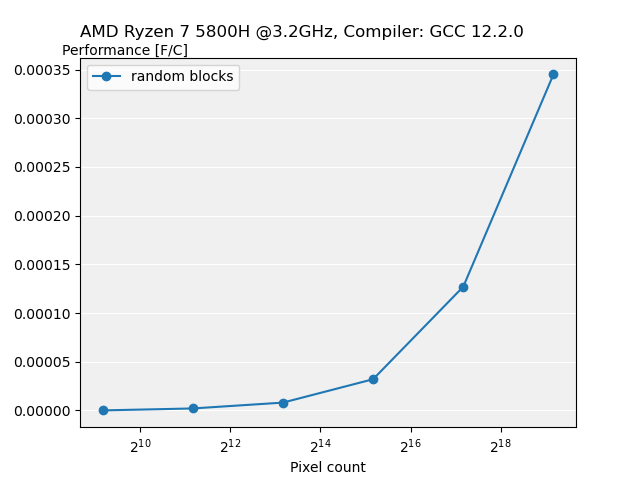
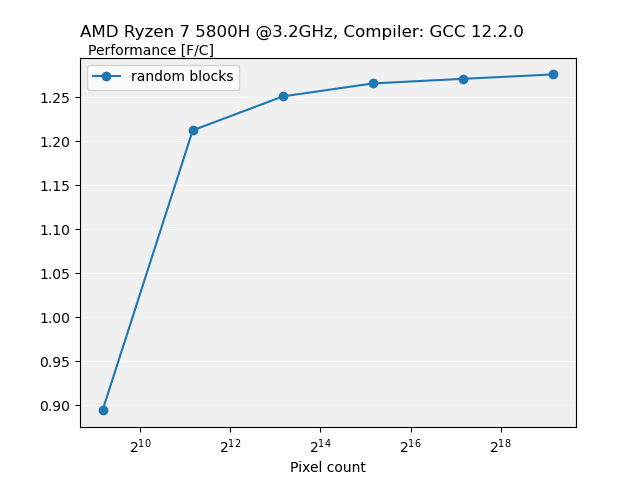
add flop counter

diff --git a/src/ImageQuilting.cpp b/src/ImageQuilting.cpp
@@ -7,6 +7,7 @@
 
 // Synthesize a new texture
 void ImageQuilting::Synthesis(){
+    flopCount = 0;
     OverlapConstraintsWithMinCut();
 }
 
@@ -117,9 +118,13 @@ void ImageQuilting::WriteBlockOverlapWithMinCut(
                 // Get the value directly above
                 double minError = dpTable[(i-1)*overlapWidthLocal+j];
                 // Get the value to the left
-                if (j > 0) minError = std::min(minError, dpTable[(i-1)*overlapWidthLocal+(j-1)]);
+                if (j > 0) {
+                    minError = std::min(minError, dpTable[(i - 1) * overlapWidthLocal + (j - 1)]);
+                }
                 // Get the value to the right
-                if (j < overlapWidthLocal-1) minError = std::min(minError, dpTable[(i-1)*overlapWidthLocal+(j+1)]);
+                if (j < overlapWidthLocal - 1) {
+                    minError = std::min(minError, dpTable[(i - 1) * overlapWidthLocal + (j + 1)]);
+                }
                 dpTable[i*overlapWidthLocal+j] = errorSurface[i*overlapWidthLocal+j] + minError;
             }
         }
@@ -145,6 +150,7 @@ void ImageQuilting::WriteBlockOverlapWithMinCut(
             // Get the value to the left
             if (j > 0){
                 double leftError = dpTable[i*overlapWidthLocal+j-1];
+                flopCount += 1;
                 if (leftError < localError){
                     localError = leftError;
                     verticalPath[i] = j-1;
@@ -153,6 +159,7 @@ void ImageQuilting::WriteBlockOverlapWithMinCut(
             // Get the value to the right
             if (j < overlapWidthLocal-1){
                 double rightError = dpTable[i*overlapWidthLocal+j+1];
+                flopCount += 1;
                 if (rightError < localError){
                     localError = rightError;
                     verticalPath[i] = j+1;
@@ -191,9 +198,13 @@ void ImageQuilting::WriteBlockOverlapWithMinCut(
                 // Get the value directly to the left
                 double minError = dpTable[i*overlapWidthLocal+j-1];
                 // Get the value to the left and up
-                if (i > 0) minError = std::min(minError, dpTable[(i-1)*overlapWidthLocal+(j-1)]);
+                if (i > 0) {
+                    minError = std::min(minError, dpTable[(i - 1) * overlapWidthLocal + (j - 1)]);
+                }
                 // Get the value to the left and below
-                if (i < overlapHeightLocal-1) minError = std::min(minError, dpTable[(i+1)*overlapWidthLocal+(j-1)]);
+                if (i < overlapHeightLocal - 1) {
+                    minError = std::min(minError, dpTable[(i + 1) * overlapWidthLocal + (j - 1)]);
+                }
                 dpTable[i*overlapWidthLocal+j] = errorSurface[i*overlapWidthLocal+j] + minError;
             }
         }
@@ -219,6 +230,7 @@ void ImageQuilting::WriteBlockOverlapWithMinCut(
             // Get the value to the left and above
             if (i > 0){
                 double leftError = dpTable[(i-1)*overlapWidthLocal+j];
+                flopCount++;
                 if (leftError < localError){
                     localError = leftError;
                     horizontalPath[j] = i-1;
@@ -226,6 +238,7 @@ void ImageQuilting::WriteBlockOverlapWithMinCut(
             }
             // Get the value to the left and below
             if (i < overlapHeightLocal-1){
+                flopCount++;
                 double rightError = dpTable[(i+1)*overlapWidthLocal+j];
                 if (rightError < localError){
                     localError = rightError;
@@ -454,6 +467,27 @@ void ImageQuilting::PlaceEdgeOverlapBlockWithMinCut(
     // Clean up
     free(blocks);
     free(suitableBlocks);
+
+    {
+        int overlap = mData->block_h / 6;
+        // flops for ComputeOverlap loop
+        if (overlapType == vertical || overlapType == horizontal) {
+            flopCount += maxBlockY * maxBlockX * (3 * CHANNEL_NUM * overlap * mData->block_h + 1);
+        } else {
+            flopCount += maxBlockY * maxBlockX * 2 * (3 * CHANNEL_NUM * overlap * mData->block_h) +
+                                  (3 * CHANNEL_NUM * overlap * overlap) + 1;
+        }
+        // flops for intermediate flops
+        flopCount += 2 * maxBlockY * maxBlockX + 2;
+
+        // flops for WriteBlockOverlapWithMinCut
+        if (overlapType == vertical || overlapType == horizontal) {
+            flopCount += 3 * CHANNEL_NUM * overlap * overlap +  3 * overlap * (overlap - 1) + (overlap - 1);
+        } else {
+            flopCount += 2 * 3 * CHANNEL_NUM * overlap * overlap +  3 * overlap * (overlap - 1) + (overlap -
+                                                                                                  1);
+        }
+    }
 }
 
 // Synthesize a new texture by randomly choosing blocks satisfying constraints and applying minimum cuts
@@ -594,4 +628,7 @@ void ImageQuilting::RandomBlockPlacement(){
             }
         }
     }
+}
+int64_t ImageQuilting::getFlopCount() const {
+    return flopCount;
 }

diff --git a/src/benchmarking/timing.cpp b/src/benchmarking/timing.cpp
@@ -26,7 +26,6 @@ void timing::run_timing() {
         printf("Timing for %s\n", files[i].c_str());
         ImgData img_data;
         file::read_png_file(files[i].c_str(), img_data);
-        //TODO: specify block size implicitly
         img_data.output_w = img_data.width * 2;
         img_data.output_h = img_data.height * 2;
         img_data.block_w = img_data.width / 2;
@@ -38,9 +37,9 @@ void timing::run_timing() {
         printf("Done. Quilting for %s took %f cycles\n\n", files[i].c_str(), cycles);
 
         int64_t data_size = img_data.width * img_data.height;
-        //TODO: write performance=flops/cycles after implementation is finished and we can count flops
+        double flopC = ((double)quilting.getFlopCount()) / cycles;
         fprintf(results_txt, "size=%ix%i, n=%lli, performance=%f\n", img_data.width, img_data.height, data_size,
-                (double)data_size/cycles);
+                flopC);
         img_data.FreeOutput();
         img_data.FreeInput();
     }
@@ -49,7 +48,7 @@ void timing::run_timing() {
 
 double timing::rdtsc(ImageQuilting* quilting) {
     double cycles = 0;
-    int64_t num_runs = 10;
+    int num_runs = 1;
     double multiplier = 1;
     myInt64 start, end;
 
@@ -72,7 +71,7 @@ double timing::rdtsc(ImageQuilting* quilting) {
 
     // Actual performance measurements repeated REP times.
     // We simply store all results and compute medians during post-processing.
-    printf("actually measuring performance (%lli times).\n", num_runs);
+    printf("actually measuring performance (%i times).\n", num_runs);
     double total_cycles = 0;
     for (size_t j = 0; j < REP; j++) {
         start = start_tsc();

diff --git a/src/ImageQuilting.h b/src/ImageQuilting.h
@@ -10,6 +10,9 @@ class ImageQuilting {
     // Synthesize a new texture
     void Synthesis();
 
+
+    int64_t getFlopCount() const;
+
    private:
 
     // Keep a pointer to the input image data
@@ -59,4 +62,6 @@ class ImageQuilting {
 
     int overlapWidth = 0;
     int overlapHeight = 0;
+
+    int64_t flopCount = 0;// just for testing
 };

diff --git a/main.cpp b/main.cpp
@@ -10,7 +10,7 @@ std::string input_file = "./gallery/input0.png";
 std::string output_file = "./gallery/output0.png";
 ImgData img_data;
 
-bool runTiming = false;
+bool runTiming = true;
 
 void parse_args(int argc, char* argv[]) {
     std::string delimiter = "=";
